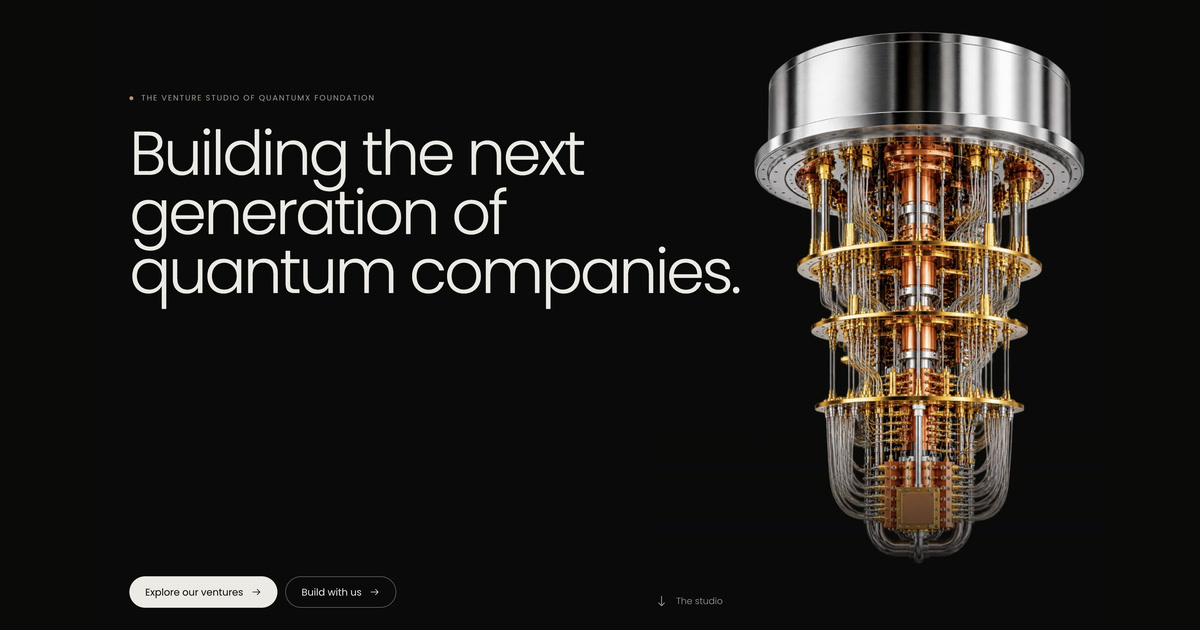
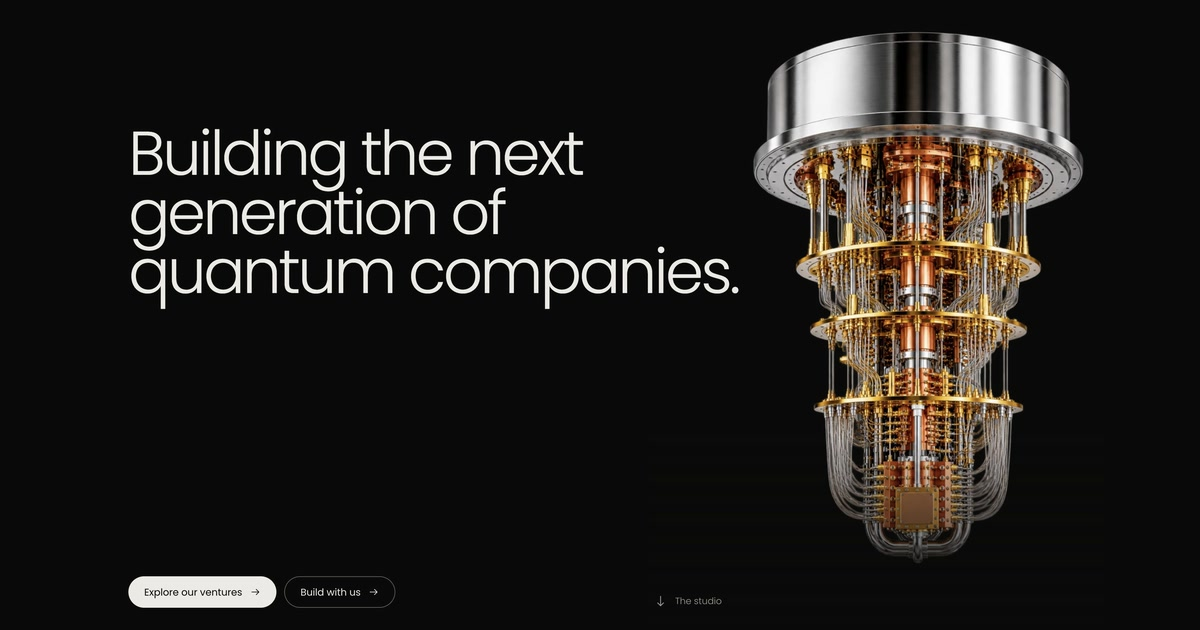
Improve mobile usability and remove hero label
- Remove "The venture studio of QuantumX Foundation" label from the hero
  and mask it out of the homepage share image
- Raise tap targets to 44px (footer, arrow links, people links, chips,
  filters, logo) while keeping the visual text size
- Raise 11px pill labels to 12px
- Footer email wraps after the @ instead of mid-word on narrow phones

diff --git a/components/site-footer.tsx b/components/site-footer.tsx
@@ -24,40 +24,44 @@ export function SiteFooter() {
             </div>
           </div>
 
-          <nav aria-label="Footer" className="col-span-6 md:col-span-3 lg:col-span-2 lg:col-start-8">
+          <nav aria-label="Footer" className="col-span-5 md:col-span-3 lg:col-span-2 lg:col-start-8">
             <p className="eyebrow">Studio</p>
-            <ul className="mt-6 space-y-3">
+            <ul className="mt-4 md:mt-6 md:space-y-1">
               {primaryNav.map((item) => (
                 <li key={item.href}>
-                  <Link href={item.href} className="link-underline text-[0.9375rem] text-ink/85 hover:text-ink">
-                    {item.label}
+                  <Link href={item.href} className="group inline-flex min-h-11 items-center text-[0.9375rem] text-ink/85 hover:text-ink md:min-h-8">
+                    <span className="link-underline">{item.label}</span>
                   </Link>
                 </li>
               ))}
               <li>
-                <Link href={primaryCta.href} className="link-underline text-[0.9375rem] text-ink/85 hover:text-ink">
-                  Contact
+                <Link href={primaryCta.href} className="group inline-flex min-h-11 items-center text-[0.9375rem] text-ink/85 hover:text-ink md:min-h-8">
+                  <span className="link-underline">Contact</span>
                 </Link>
               </li>
             </ul>
           </nav>
 
-          <div className="col-span-6 md:col-span-3 lg:col-span-3">
+          <div className="col-span-7 md:col-span-3 lg:col-span-3">
             <p className="eyebrow">Contact</p>
-            <ul className="mt-6 space-y-3 text-[0.9375rem]">
+            <ul className="mt-4 text-[0.9375rem] md:mt-6 md:space-y-1">
               <li>
-                <a href={`mailto:${site.email}`} className="link-underline break-all text-ink/85 hover:text-ink">
-                  {site.email}
+                <a href={`mailto:${site.email}`} className="group inline-flex min-h-11 items-center text-ink/85 hover:text-ink md:min-h-8">
+                  {/* Allow a line break only after the @ on narrow screens. */}
+                  <span className="link-underline">
+                    {site.email.split('@')[0]}@<wbr />
+                    {site.email.split('@')[1]}
+                  </span>
                 </a>
               </li>
-              <li className="text-muted">{site.location}</li>
+              <li className="py-2.5 text-muted md:py-1">{site.location}</li>
               {site.social.map((s) => (
                 <li key={s.href}>
                   <a
                     href={s.href}
                     target="_blank"
                     rel="noopener noreferrer"
-                    className="group inline-flex items-center gap-1.5 text-ink/85 hover:text-ink"
+                    className="group inline-flex min-h-11 items-center gap-1.5 text-ink/85 hover:text-ink md:min-h-8"
                   >
                     <span className="link-underline">{s.label}</span>
                     <ArrowUpRight className="h-3 w-3 text-subtle group-hover:text-ink" />
@@ -69,7 +73,7 @@ export function SiteFooter() {
                   href={site.parent.url}
                   target="_blank"
                   rel="noopener noreferrer"
-                  className="group inline-flex items-center gap-1.5 text-ink/85 hover:text-ink"
+                  className="group inline-flex min-h-11 items-center gap-1.5 text-ink/85 hover:text-ink md:min-h-8"
                 >
                   <span className="link-underline">{site.parent.name}</span>
                   <ArrowUpRight className="h-3 w-3 text-subtle group-hover:text-ink" />
@@ -99,8 +103,8 @@ export function SiteFooter() {
             <p>
               &copy; {year} {site.name}
             </p>
-            <a href={site.privacyUrl} target="_blank" rel="noopener noreferrer" className="link-underline hover:text-ink">
-              Privacy
+            <a href={site.privacyUrl} target="_blank" rel="noopener noreferrer" className="group inline-flex min-h-11 items-center hover:text-ink">
+              <span className="link-underline">Privacy</span>
             </a>
           </div>
         </div>

diff --git a/components/sections/hero.tsx b/components/sections/hero.tsx
@@ -1,5 +1,4 @@
 import Image from 'next/image';
-import { site } from '@/content/site';
 import { ButtonLink } from '../ui';
 import { ArrowDown } from '../icons';
 
@@ -33,14 +32,9 @@ export function Hero() {
       </div>
 
       <div className="container-site relative flex min-h-[100svh] flex-col pb-10 pt-[calc(var(--header-h)+clamp(2.5rem,9vh,7rem))] lg:min-h-[max(100svh,680px)]">
-        <p className="eyebrow animate-rise flex items-center gap-3" style={{ ['--delay' as string]: '60ms' }}>
-          <span className="inline-block h-1.5 w-1.5 rounded-full bg-copper" aria-hidden="true" />
-          The venture studio of {site.parent.name}
-        </p>
-
         <h1
           id="hero-title"
-          className="animate-rise mt-8 max-w-[11ch] text-mega font-light lg:max-w-none lg:text-[min(5.5vw,10.5vh)]"
+          className="animate-rise max-w-[11ch] text-mega font-light lg:max-w-none lg:text-[min(5.5vw,10.5vh)]"
           style={{ ['--delay' as string]: '140ms' }}
         >
           {/* Three set lines on desktop; natural wrapping on smaller screens. */}
@@ -80,7 +74,7 @@ export function Hero() {
           <div className="col-span-12 hidden items-end justify-between lg:col-span-7 lg:flex">
             <a
               href="#studio"
-              className="animate-rise ml-[18%] flex items-center gap-3 text-sm text-muted transition-colors hover:text-ink"
+              className="animate-rise ml-[18%] flex min-h-11 items-center gap-3 text-sm text-muted transition-colors hover:text-ink"
               style={{ ['--delay' as string]: '420ms' }}
             >
               <ArrowDown className="h-5 w-5" />

diff --git a/components/sections/people.tsx b/components/sections/people.tsx
@@ -56,7 +56,7 @@ export function PersonCard({ person }: { person: Person }) {
       <h3 className="mt-5 text-[1.125rem] font-normal tracking-[-0.01em]">{person.name}</h3>
       <p className="mt-1 text-[0.9375rem] text-muted">{person.role}</p>
       <p className="mt-4 text-[0.9375rem] leading-relaxed text-ink/75">{person.summary}</p>
-      <ul className="mt-5 flex flex-wrap gap-x-5 gap-y-2 text-sm">
+      <ul className="mt-3 flex flex-wrap gap-x-5 text-sm">
         {[
           { label: 'Profile', href: person.profileUrl },
           { label: 'LinkedIn', href: person.linkedin },
@@ -69,7 +69,7 @@ export function PersonCard({ person }: { person: Person }) {
                 href={link.href}
                 target="_blank"
                 rel="noopener noreferrer"
-                className="inline-flex items-center gap-1 text-muted transition-colors hover:text-ink"
+                className="inline-flex min-h-11 min-w-11 items-center gap-1 text-muted transition-colors hover:text-ink"
                 aria-label={`${person.name} on ${link.label === 'Profile' ? 'QuantumX Foundation' : link.label}`}
               >
                 <span className="link-underline">{link.label}</span>

diff --git a/app/thesis/page.tsx b/app/thesis/page.tsx
@@ -41,7 +41,7 @@ export default function ThesisPage() {
                 <li key={area.slug}>
                   <a
                     href={`#${area.slug}`}
-                    className="inline-flex items-center gap-2 rounded-full border border-line px-4 py-2 text-sm text-ink/85 transition-colors hover:border-ink hover:text-ink"
+                    className="inline-flex min-h-11 items-center gap-2 rounded-full border border-line px-4 text-sm text-ink/85 transition-colors hover:border-ink hover:text-ink"
                   >
                     <span className="tabular-nums text-subtle">{area.number}</span>
                     {area.title}
@@ -68,7 +68,7 @@ export default function ThesisPage() {
                   {area.number}
                 </p>
                 <span
-                  className="rounded-full border border-line px-3 py-1 text-[0.6875rem] uppercase tracking-[0.12em] text-muted"
+                  className="rounded-full border border-line px-3 py-1 text-[0.75rem] uppercase tracking-[0.12em] text-muted"
                   data-reveal
                 >
                   {area.status}

diff --git a/components/site-header.tsx b/components/site-header.tsx
@@ -78,7 +78,7 @@ export function SiteHeader() {
         }`}
       >
         <div className="container-site flex h-[var(--header-h)] items-center justify-between gap-6">
-          <Link href="/" className="relative z-10 -m-2 p-2" aria-label={`${site.name}, home`}>
+          <Link href="/" className="relative z-10 -mx-2 flex min-h-11 items-center px-2" aria-label={`${site.name}, home`}>
             <Logo />
           </Link>
   
@@ -164,8 +164,8 @@ export function SiteHeader() {
               <ArrowRight className="h-4 w-4" />
             </Link>
             <p className="mt-6 text-sm text-muted">
-              <a href={`mailto:${site.email}`} className="link-underline">
-                {site.email}
+              <a href={`mailto:${site.email}`} className="group inline-flex min-h-11 items-center">
+                <span className="link-underline">{site.email}</span>
               </a>
             </p>
           </div>

diff --git a/components/sections/closing-cta.tsx b/components/sections/closing-cta.tsx
@@ -25,8 +25,11 @@ export function ClosingCta({
                 <ButtonLink href="/contact/" variant="solid">
                   Start a conversation
                 </ButtonLink>
-                <a href={`mailto:${site.email}`} className="link-underline text-[0.9375rem] text-muted hover:text-ink">
-                  or email {site.email}
+                <a
+                  href={`mailto:${site.email}`}
+                  className="group inline-flex min-h-11 items-center text-[0.9375rem] text-muted hover:text-ink"
+                >
+                  <span className="link-underline">or email {site.email}</span>
                 </a>
               </div>
             </div>

diff --git a/components/sections/thesis.tsx b/components/sections/thesis.tsx
@@ -44,7 +44,7 @@ export function ThesisSection({ index = '03' }: { index?: string }) {
                       <p className="mt-3 max-w-lg text-[1.0625rem] leading-relaxed text-muted">{area.summary}</p>
                     </div>
                   </div>
-                  <span className="hidden shrink-0 rounded-full border border-line px-3 py-1 text-[0.6875rem] uppercase tracking-[0.12em] text-muted sm:inline-block">
+                  <span className="hidden shrink-0 rounded-full border border-line px-3 py-1 text-[0.75rem] uppercase tracking-[0.12em] text-muted sm:inline-block">
                     {area.status}
                   </span>
                 </div>

diff --git a/components/insights-browser.tsx b/components/insights-browser.tsx
@@ -22,7 +22,7 @@ export function InsightsBrowser({ items, kinds }: { items: readonly Insight[]; k
               type="button"
               aria-pressed={selected}
               onClick={() => setActive(kind)}
-              className={`inline-flex items-center gap-2 rounded-full border px-4 py-2 text-sm transition-colors duration-300 ${
+              className={`inline-flex min-h-11 items-center gap-2 rounded-full border px-4 text-sm transition-colors duration-300 ${
                 selected ? 'border-ink bg-ink text-paper' : 'border-line text-ink/85 hover:border-ink hover:text-ink'
               }`}
             >

diff --git a/components/sections/insights.tsx b/components/sections/insights.tsx
@@ -62,7 +62,7 @@ export function InsightList({
               <time dateTime={item.date} className="text-eyebrow uppercase tabular-nums text-muted">
                 {formatInsightDate(item.date)}
               </time>
-              <span className="rounded-full border border-ink/30 px-2.5 py-0.5 text-[0.6875rem] uppercase tracking-[0.12em] text-ink/80">
+              <span className="rounded-full border border-ink/30 px-2.5 py-0.5 text-[0.75rem] uppercase tracking-[0.12em] text-ink/80">
                 {item.kind}
               </span>
             </div>

diff --git a/app/contact/page.tsx b/app/contact/page.tsx
@@ -53,8 +53,8 @@ export default function ContactPage() {
               <div>
                 <dt className="eyebrow">Email</dt>
                 <dd className="mt-3">
-                  <a href={`mailto:${site.email}`} className="link-underline text-[1.0625rem]">
-                    {site.email}
+                  <a href={`mailto:${site.email}`} className="group inline-flex min-h-11 items-center text-[1.0625rem]">
+                    <span className="link-underline">{site.email}</span>
                   </a>
                 </dd>
               </div>

diff --git a/components/ui.tsx b/components/ui.tsx
@@ -86,7 +86,7 @@ export function ArrowLink({
   return (
     <SmartLink
       href={href}
-      className={`group inline-flex items-center gap-2 text-[0.9375rem] font-normal text-ink ${className}`}
+      className={`group inline-flex min-h-11 items-center gap-2 text-[0.9375rem] font-normal text-ink ${className}`}
     >
       <span className="link-underline">{children}</span>
       {external ? (

diff --git a/app/globals.css b/app/globals.css
@@ -85,6 +85,8 @@
   }
 
   .link-underline:hover,
+  .group:hover .link-underline,
+  .group:focus-visible .link-underline,
   .link-underline[aria-current='page'] {
     background-size: 100% 1px;
   }
